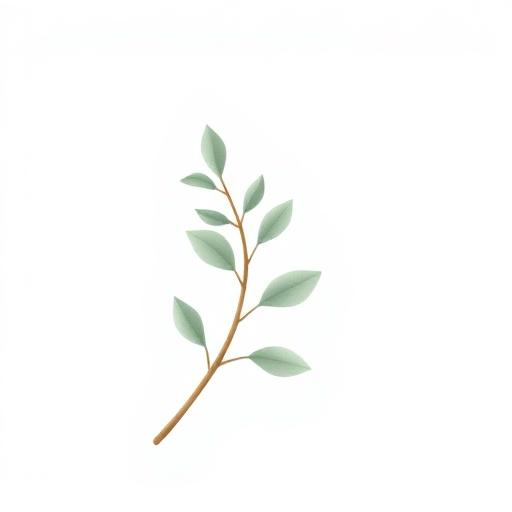
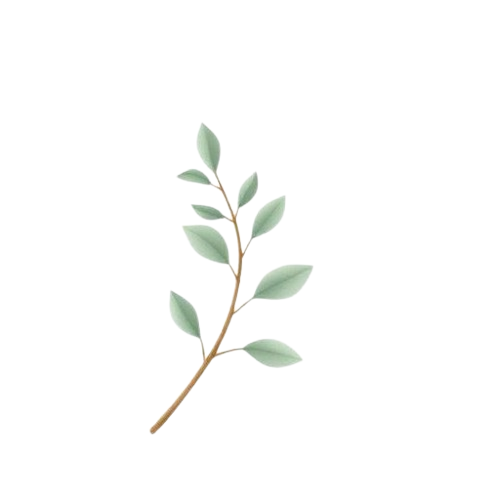
Enhance animations in HeroSection and ParallaxBackground components, and update leaf assets

diff --git a/src/components/ParallaxBackground.tsx b/src/components/ParallaxBackground.tsx
@@ -1,21 +1,23 @@
-import { motion, useScroll, useTransform } from "framer-motion";
+import { motion, useScroll, useTransform, useSpring } from "framer-motion";
 import { useRef } from "react";
 import leaf1 from "@/assets/leaf-1.png";
 import leaf2 from "@/assets/leaf-2.png";
 
 const ParallaxBackground = () => {
   const containerRef = useRef<HTMLDivElement>(null);
-  const { scrollYProgress } = useScroll({
-    target: containerRef,
-    offset: ["start start", "end end"],
+  const { scrollYProgress } = useScroll();
+  const smoothProgress = useSpring(scrollYProgress, {
+    stiffness: 40,
+    damping: 40,
+    mass: 1.2,
   });
 
-  const y1 = useTransform(scrollYProgress, [0, 1], [0, -300]);
-  const y2 = useTransform(scrollYProgress, [0, 1], [0, 300]);
-  const y3 = useTransform(scrollYProgress, [0, 1], [0, -200]);
-  const y4 = useTransform(scrollYProgress, [0, 1], [0, 400]);
-  const rotate1 = useTransform(scrollYProgress, [0, 1], [0, 360]);
-  const rotate2 = useTransform(scrollYProgress, [0, 1], [0, -360]);
+  const y1 = useTransform(smoothProgress, [0, 1], [0, -70]);
+  const y2 = useTransform(smoothProgress, [0, 1], [0, 70]);
+  const y3 = useTransform(smoothProgress, [0, 1], [0, -50]);
+  const y4 = useTransform(smoothProgress, [0, 1], [0, 50]);
+  const rotate1 = useTransform(smoothProgress, [0, 1], [0, 100]);
+  const rotate2 = useTransform(smoothProgress, [0, 1], [0, -100]);
 
   return (
     <div ref={containerRef} className="fixed inset-0 pointer-events-none z-0 overflow-hidden">
@@ -48,7 +50,7 @@ const ParallaxBackground = () => {
         initial={{ opacity: 0, scale: 0, x: -50 }}
         animate={{ opacity: 0.5, scale: 1, x: 0 }}
         transition={{ duration: 1, delay: 0.6, ease: "easeOut" }}
-        style={{ y: y3 }}
+        style={{ y: y3, rotate: rotate2 }}
         className="absolute top-1/3 -left-24 w-72 h-72"
       />
 
@@ -70,7 +72,7 @@ const ParallaxBackground = () => {
         initial={{ opacity: 0, scale: 0, rotate: -30 }}
         animate={{ opacity: 0.5, scale: 1, rotate: 0 }}
         transition={{ duration: 1, delay: 1, ease: "easeOut" }}
-        style={{ y: y2 }}
+        style={{ y: y2, rotate: rotate1 }}
         className="absolute bottom-20 -left-28 w-96 h-96"
       />
 

diff --git a/src/components/HeroSection.tsx b/src/components/HeroSection.tsx
@@ -1,12 +1,17 @@
-import { motion, useScroll, useTransform } from "framer-motion";
+import { motion, useScroll, useTransform, useSpring } from "framer-motion";
 import heroCoupleImage from "@/assets/hero-couple.jpg";
 import { Button } from "./ui/button";
 
 const HeroSection = () => {
   const { scrollY } = useScroll();
+  const smoothY = useSpring(scrollY, {
+    stiffness: 40,
+    damping: 20,
+    mass: 1.2,
+  });
   const y = useTransform(scrollY, [0, 500], [0, 150]);
-  const opacity = useTransform(scrollY, [0, 300], [1, 0]);
-  const maskY = useTransform(scrollY, [0, 300], ["0%", "100%"]);
+  const opacity = useTransform(smoothY, [0, 300], [1, 0]);
+  const maskY = useTransform(smoothY, [0, 300], ["0%", "100%"]);
 
   const scrollToRSVP = () => {
     const rsvpSection = document.getElementById("rsvp-section");
